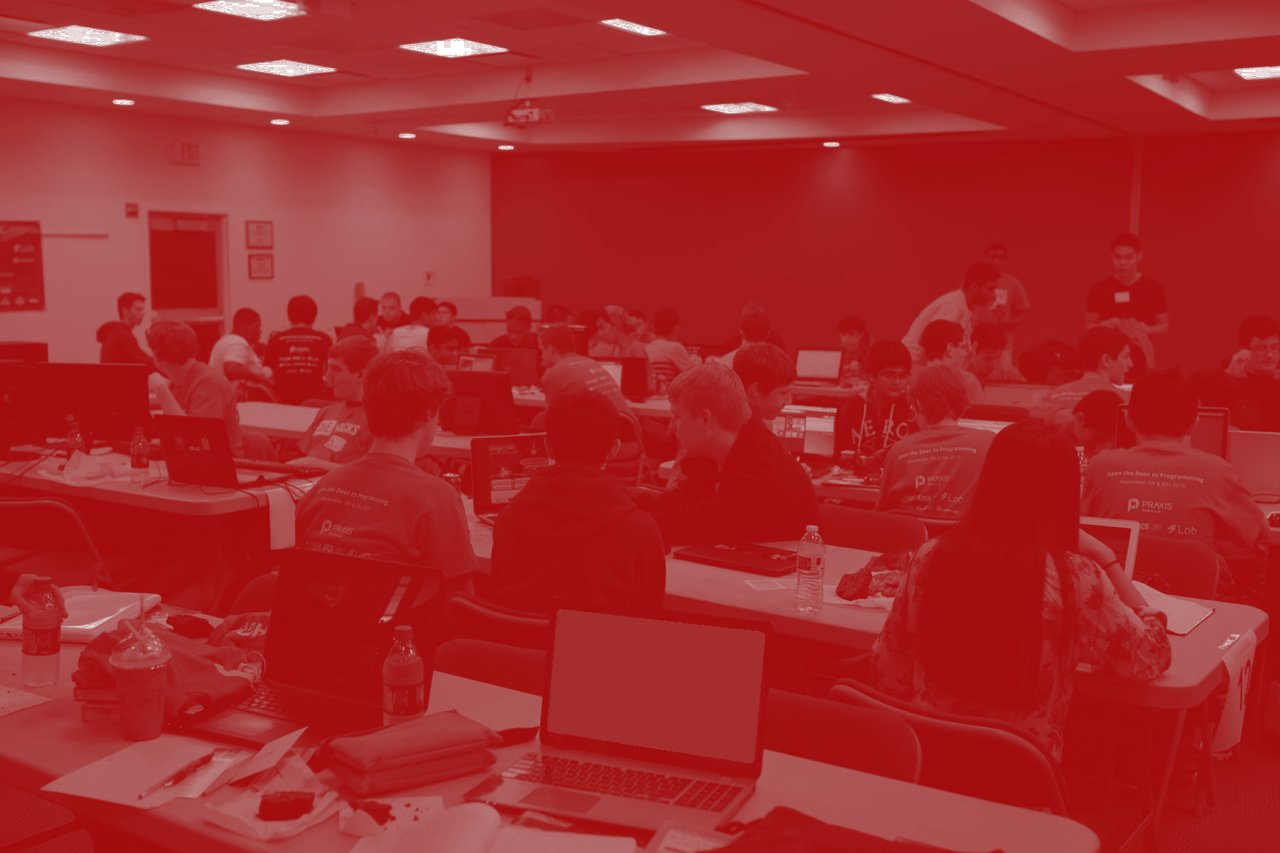
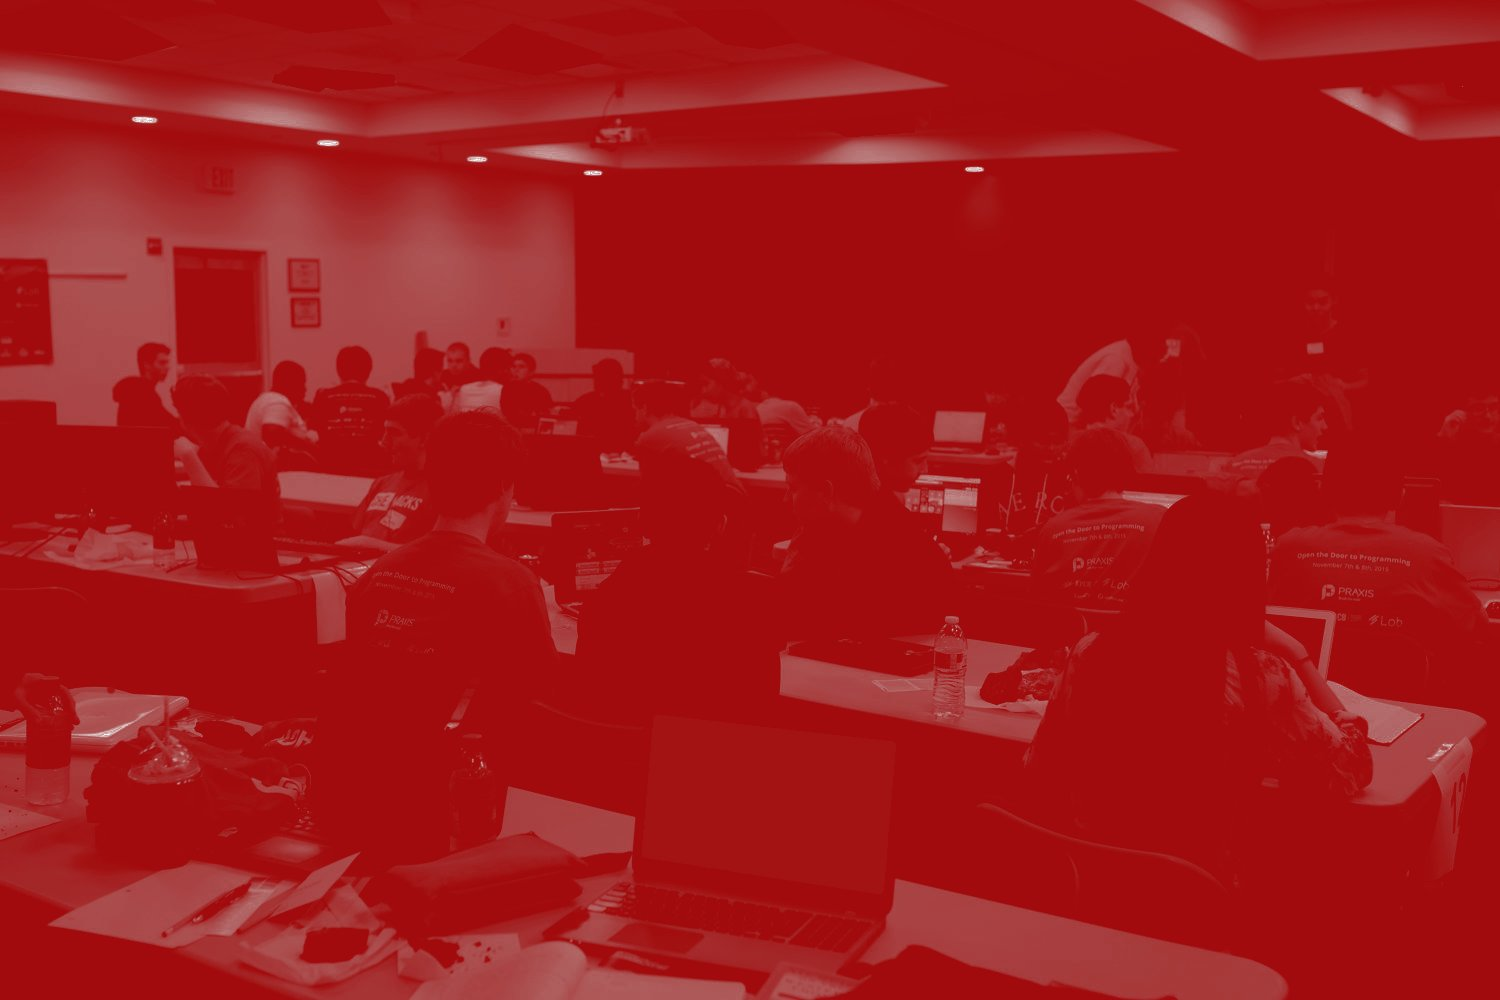
Added footer and map
Also darkened image and changed logo, thanks @sethtrei

diff --git a/static/css/style.css b/static/css/style.css
@@ -6,6 +6,27 @@
   margin-bottom: 10px !important;
 }
 
+.txt-center {
+  text-align: center;
+}
+
+.map {
+  padding-left: 0px !important;
+  padding-right: 0px !important;
+}
+
+.address {
+  text-align: center;
+}
+
+.no-pad-bottom {
+  padding-bottom: 0px;
+}
+
+.md-pad-top {
+  padding-top: 72px;
+}
+
 .hr-red {
   border-color: #AA4049 !important;
 }
@@ -70,7 +91,15 @@
 }
 
 .text-faded-red {
-  color: #AA4049;
+  color: #AA4049 !important;
+}
+
+.txt-lg {
+  font-size: 72px !important;
+}
+
+.txt-xl {
+  font-size: 92px !important;
 }
 
 @media (min-width: 768px){
@@ -91,6 +120,10 @@
       outline-style: solid;
       outline-width: 1px;
   }
+  .md-50 {
+    width: 50%;
+    margin-left:25%;
+  }
 }
 
 @media (max-width: 768px) {
@@ -99,6 +132,9 @@
   }
   .sub2 {
     font-size: 24px !important;
+  }
+  .sm-100 {
+    width: 100%;
   }
 }
 
@@ -109,6 +145,14 @@ li .page-scroll {
 .bg-primary {
   background-color: #EEE;
   color : #AA4049;
+}
+
+.icon-primary {
+  color: white;
+}
+
+#contact {
+  background-image: url('../img/footer.png');
 }
 
 .navbar-default.affix .navbar-header .navbar-brand {
@@ -128,13 +172,13 @@ li .page-scroll {
   color: #DDD !important;
 }
 
-@media(min-width: 633px) {
+@media(min-width: 695px) {
   .logo {
     content:url("../img/logo.png");
   }
 }
 
-@media(max-width: 632px){
+@media(max-width: 695px){
   .logo {
     content:url("../img/logoSm.png");
   }

diff --git a/layouts/index.html b/layouts/index.html
@@ -1,0 +1,47 @@
+<!DOCTYPE html>
+<html lang="{{ with .Site.LanguageCode }}{{ . }}{{ else }}en-US{{ end }}">
+    <head>
+        {{ partial "head.html" . }}
+    </head>
+    <body id="page-top">
+        {{ if or .Site.Params.navigation.links.about .Site.Params.navigation.links.services .Site.Params.navigation.links.portfolio .Site.Params.navigation.links.contact }}
+            {{ partial "nav.html" . }}
+        {{ end }}
+
+        {{ if .Site.Params.hero }}
+            {{ partial "hero.html" . }}
+        {{ end }}
+
+        {{ if .Site.Params.about }}
+            {{ partial "about.html" . }}
+        {{ end }}
+
+        {{ if .Site.Params.location }}
+            {{ partial "location.html" . }}
+        {{ end }}
+
+        {{ if .Site.Params.services.list }}
+            {{ partial "services.html" . }}
+        {{ end }}
+
+        {{ if .Site.Data.projects }}
+            {{ partial "portfolio.html" . }}
+        {{ end }}
+
+        {{ if .Site.Params.aside }}
+            {{ partial "aside.html" . }}
+        {{ end }}
+
+        {{ if .Site.Params.contact }}
+            {{ partial "contact.html" . }}
+        {{ end }}
+
+        {{ if .Site.Data.projects }}
+            {{ partial "modals.html" . }}
+        {{ end }}
+
+        {{ partial "js.html" . }}
+
+        {{ template "_internal/google_analytics.html" . }}
+    </body>
+</html>

diff --git a/layouts/partials/contact.html b/layouts/partials/contact.html
@@ -1,0 +1,22 @@
+{{ "<!-- CONTACT -->" | safeHTML }}
+<section class ="bg-CHE md-pad-top" id="contact">
+    <div class="container">
+        <div class="row txt-center">
+          {{ with .Site.Params.contact.headline }}
+              <h2 class="section-heading txt-lg icon-primary"><strong>{{ . }}</strong></h2>
+          {{ end }}
+          <br>
+          <div class="md-50 sm-100">
+            <div class="col-lg-4 col-md-4 col-sm-4 col-xs-4">
+              <a href="{{ .Site.Params.contact.facebook }}"><i class="fa fa-facebook-square txt-xl icon-primary" aria-hidden="true"></i></a>
+            </div>
+            <div class="col-lg-4 col-md-4 col-sm-4 col-xs-4">
+              <a href="{{ .Site.Params.contact.twitter }}"><i class="fa fa-twitter-square txt-xl icon-primary" aria-hidden="true"></i></a>
+            </div>
+            <div class="col-lg-4 col-md-4 col-sm-4 col-xs-4">
+              <a href = "{{ .Site.Params.contact.instagram }}"><i class="fa fa-instagram txt-xl icon-primary" aria-hidden="true"></i></a>
+            </div>
+          </div>
+        </div>
+    </div>
+</section>

diff --git a/layouts/partials/about.html b/layouts/partials/about.html
@@ -1,5 +1,5 @@
 {{ "<!-- ABOUT -->" | safeHTML }}
-<section class="bg-primary" id="about">
+<section class="bg-primary no-pad-bottom" id="about">
     <div class="container">
         <div class="row">
             <div class="col-lg-8 col-lg-offset-2 text-center">
@@ -17,5 +17,14 @@
                 {{ end }}
             </div>
         </div>
+    </div>
+    <br>
+    <br>
+    <div class = "address">
+      <a class = "text-faded-red" href="https://www.google.com/maps/place/Cherry+Hill+Public+Library/@39.9205103,-75.004413,17z/data=!3m1!4b1!4m2!3m1!1s0x89c6cb0da7993605:0x6b92d74781954744" target="_blank">1100 Kings Highway North, Cherry Hill, New Jersey</a>
+    </div>
+    <br>
+    <div class="container-fluid map">
+      <iframe width='100%' height='300px' frameBorder='0' src='https://a.tiles.mapbox.com/v4/bogidon.l6gl3gko/attribution,zoompan.html?access_token=pk.eyJ1IjoiYm9naWRvbiIsImEiOiJrVDd5QkgwIn0.S8EK_4IzAQFOFssmXyf7jQ'></iframe>
     </div>
 </section>

diff --git a/layouts/partials/location.html b/layouts/partials/location.html
@@ -1,0 +1,7 @@
+{{ if and .Site.Params.location.latitude .Site.Params.location.longitude }}
+<!--><section id="location" class="no-padding">
+  <div class="container-fluid map">
+    <iframe width='100%' height='300px' frameBorder='0' src='https://a.tiles.mapbox.com/v4/bogidon.l6gl3gko/attribution,zoompan.html?access_token=pk.eyJ1IjoiYm9naWRvbiIsImEiOiJrVDd5QkgwIn0.S8EK_4IzAQFOFssmXyf7jQ'></iframe>
+  </div>
+</section><-->
+{{ end }}
